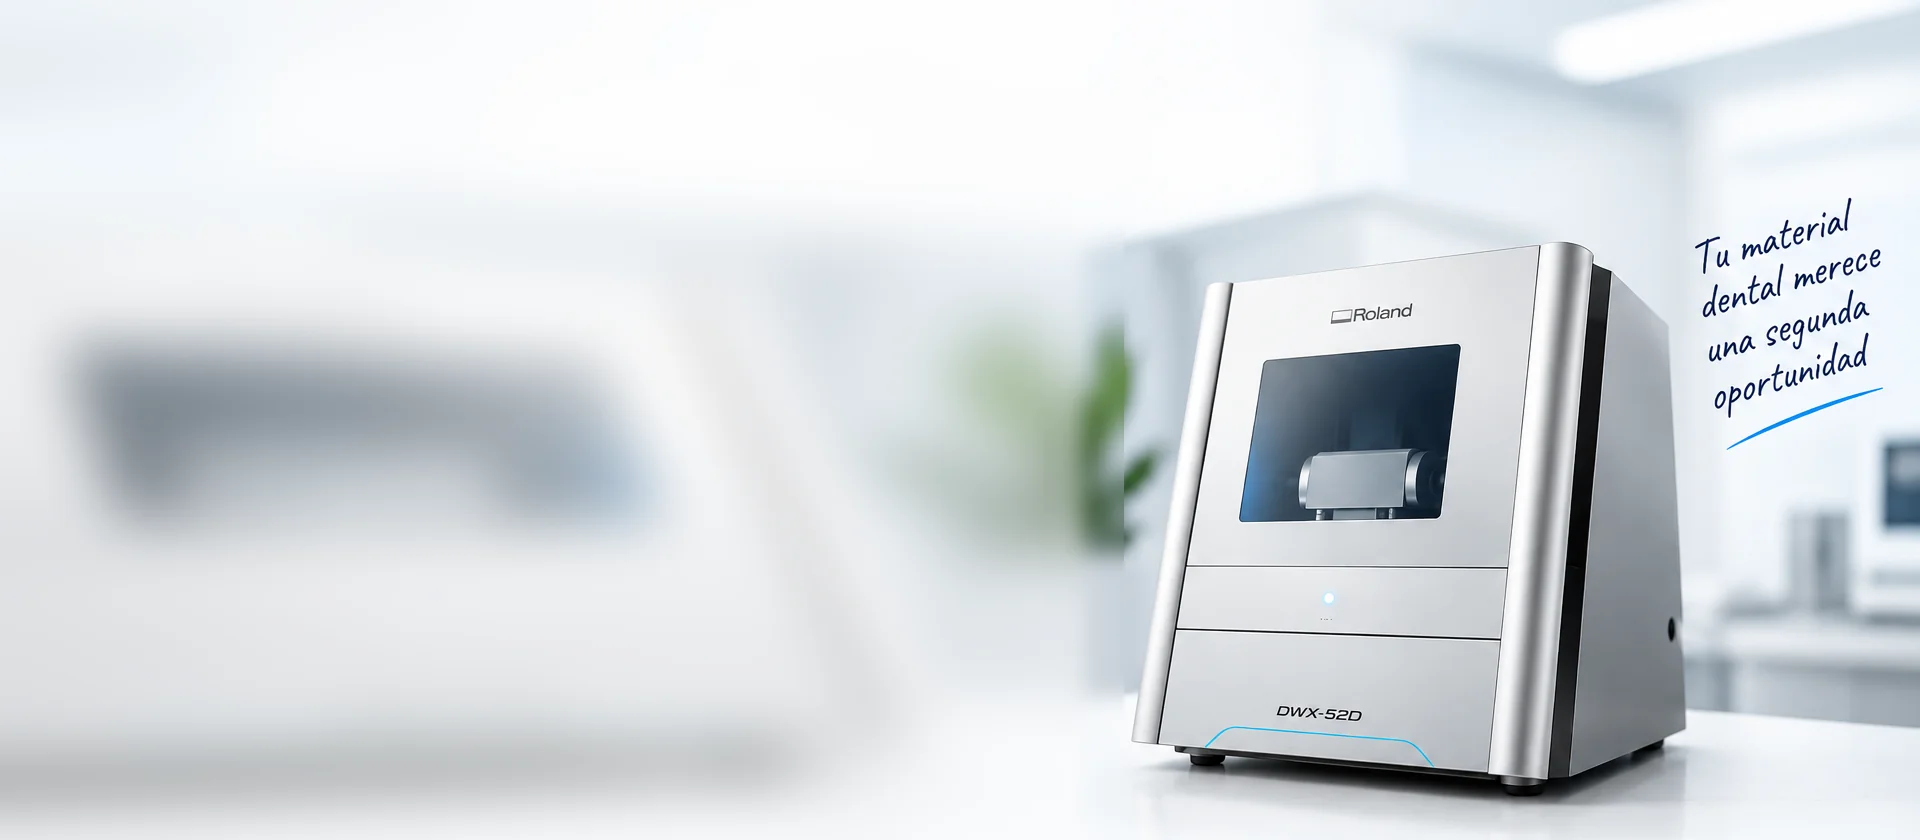
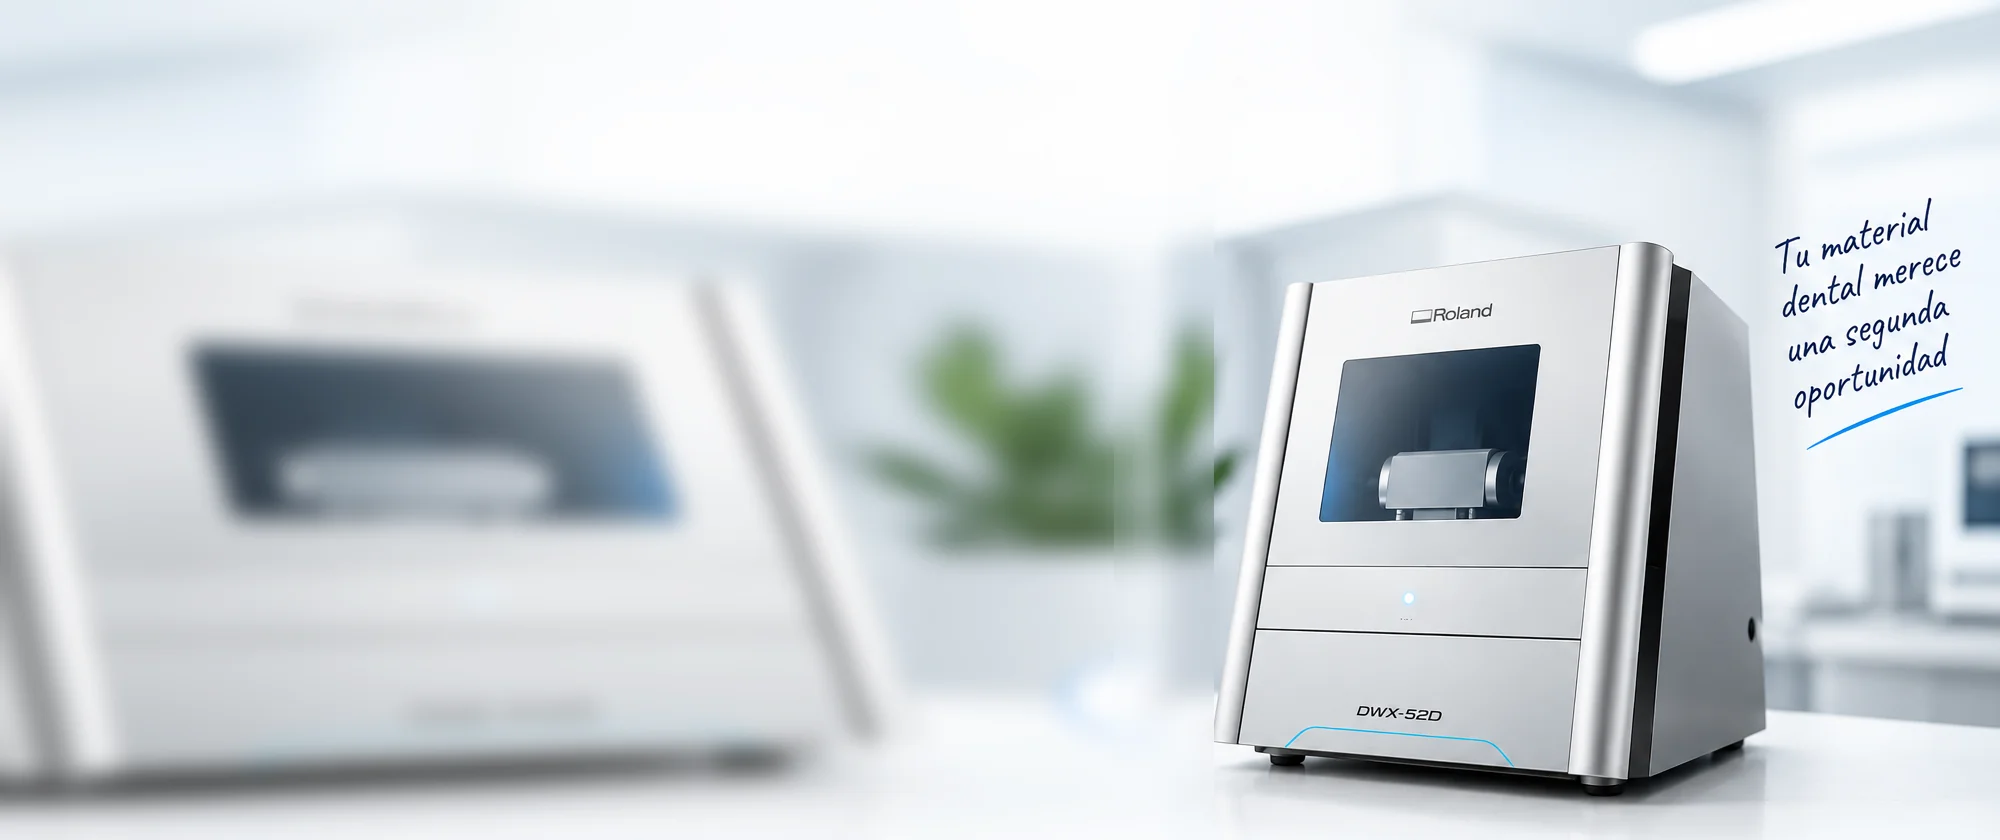
Update web 2.0

diff --git a/src/app/page.tsx b/src/app/page.tsx
@@ -35,13 +35,13 @@ export default async function HomePage() {
           fill
           priority
           sizes="100vw"
-          className="object-cover object-[68%_center] lg:object-right"
+          className="object-cover object-[68%_center] lg:object-[right_45%]"
         />
         {/* Velo blanco degradado para que el texto se lea */}
-        <div className="absolute inset-0 bg-gradient-to-b from-white via-white/90 via-50% to-white/10 lg:bg-gradient-to-r lg:via-white/85 lg:via-45% lg:to-white/0 lg:to-70%" />
+        <div className="absolute inset-0 bg-gradient-to-b from-white via-white/90 via-50% to-white/10 lg:bg-gradient-to-r lg:from-white/75 lg:via-white/70 lg:via-40% lg:to-white/0 lg:to-65%" />
         <div className="absolute inset-x-0 bottom-0 h-24 bg-gradient-to-t from-white to-transparent" />
 
-        <div className="container-lv relative grid min-h-[640px] items-start py-12 sm:min-h-[600px] lg:min-h-[640px] lg:grid-cols-2 lg:items-center lg:py-24">
+        <div className="container-lv relative grid min-h-[640px] items-start py-12 sm:min-h-[600px] lg:h-[38vw] lg:max-h-[680px] lg:min-h-[540px] lg:grid-cols-2 lg:items-center lg:py-0">
           <div>
             <p className="eyebrow mb-4">Maquinaria dental de segunda mano</p>
             <h1 className="text-4xl font-extrabold leading-[1.05] tracking-tight sm:text-5xl lg:text-6xl">
